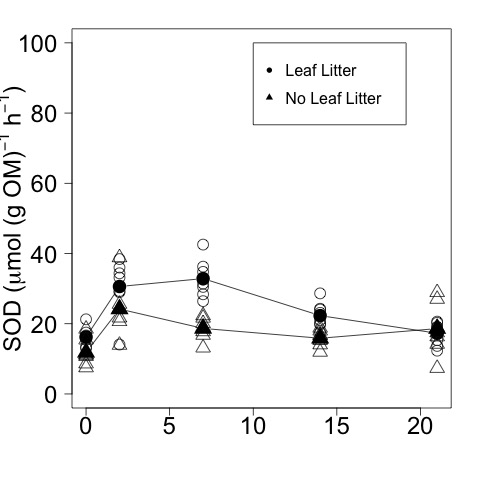
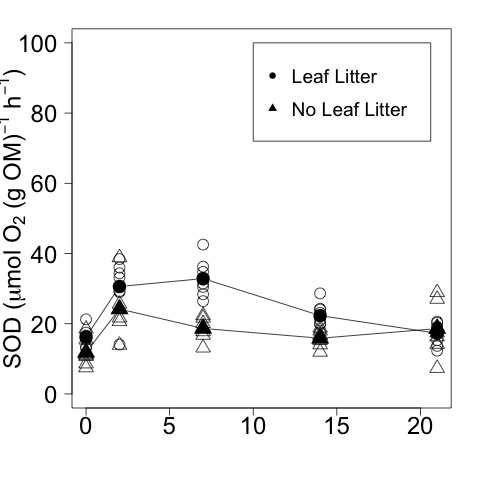
ms figures

Changed region(s): [[0.5, 0.0625, 0.9062, 0.3125], [0.0, 0.125, 0.0625, 0.7812]]

diff --git a/lab_notebook/analysis/CPOM_Flux_SOD_Analysis.md b/lab_notebook/analysis/CPOM_Flux_SOD_Analysis.md
@@ -297,11 +297,11 @@ in umol / (g OM) / h
 
     # Plot of OM normalized SOD by days of incubation (for ASB talk)
     par(las = 1, mar = c(5, 5, 2, 2))
-    plot(sod.OM ~ days.elap, data = sod, subset = CPOM == "yes", ylim = c(0, 100), xlab = " ", ylab = expression(paste("SOD (", mu, "mol (g OM)"^{-1}, " h"^{-1}, ")")), pch = 1, col = "grey4", cex.axis = 1.5, cex.lab = 1.5, cex = 2)
+    plot(sod.OM ~ days.elap, data = sod, subset = CPOM == "yes", ylim = c(0, 100), xlab = " ", ylab = expression(paste("SOD (",mu, "mol ", O[2], " (g OM)"^{-1}, " h"^{-1}, ")")) , pch = 1, col = "grey4", cex.axis = 1.5, cex.lab = 1.5, cex = 2)
     points(sod.mean.CPOM ~ unique(days.elap), data = sod, type = "b", pch = 16, col = "black", cex = 2.5)
     points(sod.OM ~ days.elap, data = sod, subset = CPOM == "no", pch = 2, col = "grey4", cex = 2)
     points(sod.mean.ctl ~ unique(days.elap), data = sod, type = "b", pch = 17, col = "black", cex = 2.5)
-    legend(10, 100, c("Leaf Litter ", "No Leaf Litter "), pch = c(16, 17), cex = 1)
+    legend(10, 100, c("Leaf Litter", "No Leaf Litter"), pch = c(16, 17), cex = 1.2)
     dev.copy(jpeg, "./output/plots/SOD_OM_by_days.jpg")
     dev.off()
 

diff --git a/lab_notebook/analysis/leached_litter_Spring_SOD_Analysis.md b/lab_notebook/analysis/leached_litter_Spring_SOD_Analysis.md
@@ -326,8 +326,8 @@ days.elap:treatment 0.00005058 0.00005058     1  8.0003  0.4149 0.53753
 #### Plot of the OM Normalized SOD 
 
     par(las = 1, mar = c(5, 5, 2, 2))
-    plot(SOD.OM * 1000 ~ days.elap, data = sod.om, subset = treatment == "LS", ylim = c(0, 100), xlim = c(0, 21), xlab = "Days of Incubation", ylab = expression(paste("SOD (",mu, "mol ", O[2], "(g OM)"^{-1}, " h"^{-1}, ")")), pch = 1, cex.axis = 1.2, cex.lab = 1.5, cex = 2.5, cex.axis = 1.5, cex.lab = 1.5)
-    points(SOD.OM * 1000 ~ days.elap, data = sod.om, subset = treatment == "S", pch = 2, cex = 2.5)
+    plot(SOD.OM * 1000 ~ days.elap, data = sod.om, subset = treatment == "LS", ylim = c(0, 100), xlim = c(0, 21), xlab = "Days of Incubation", ylab = expression(paste("SOD (",mu, "mol ", O[2], " (g OM)"^{-1}, " h"^{-1}, ")")), pch = 1, cex = 2, cex.axis = 1.5, cex.lab = 1.5)
+    points(SOD.OM * 1000 ~ days.elap, data = sod.om, subset = treatment == "S", pch = 2, cex = 2)
     #legend(12, 100, c("Leaf Litter", "No Leaf Litter"), pch = c(4, 1), cex = 1)
     dev.copy(jpeg, "./output/plots/leached_litter_SOD.OM_by_days.jpg")
     dev.off()
